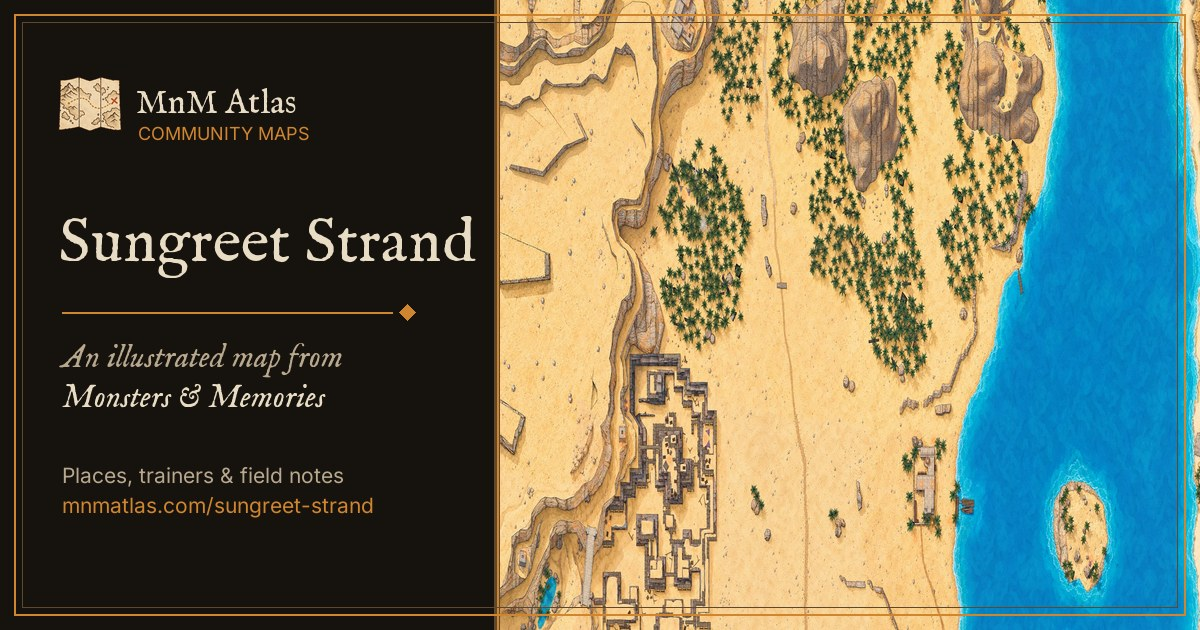
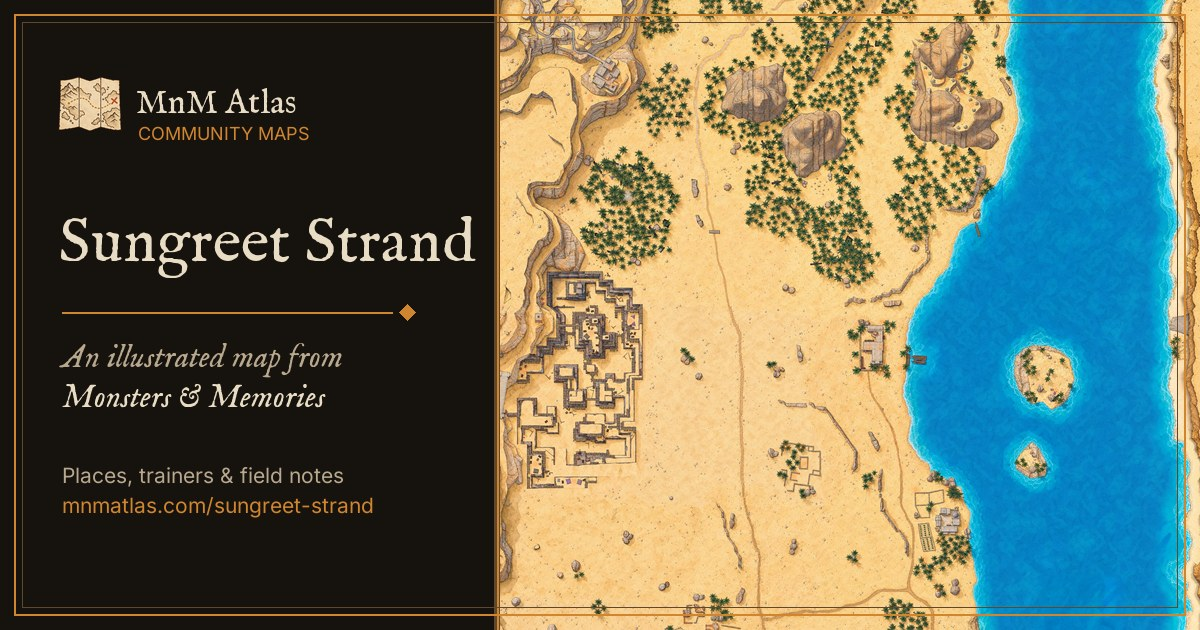
Fix the stretched Sungreet Strand link preview card
The card artwork was cropped from a wide area and squeezed into the card's near-square panel; the crop now has the panel's proportions. The card URL version is bumped so Discord and others fetch the new image.

diff --git a/sungreet-strand/index.html b/sungreet-strand/index.html
@@ -4,8 +4,8 @@
  <meta charset="utf-8"><meta name="viewport" content="width=device-width,initial-scale=1"><meta name="theme-color" content="#16120e">
  <title>Sungreet Strand · MnM Atlas</title><meta name="description" content="An illustrated fan atlas of Sungreet Strand: the quarry, the palm groves, the river and its camps, with place names and personal field notes.">
  <meta property="og:site_name" content="MnM Atlas"><meta property="og:title" content="Sungreet Strand · MnM Atlas"><meta property="og:description" content="An illustrated fan atlas of Sungreet Strand: the quarry, the palm groves, the river and its camps, with place names and personal field notes."><meta property="og:url" content="https://www.mnmatlas.com/sungreet-strand/"><meta property="og:type" content="website">
- <meta property="og:image" content="https://www.mnmatlas.com/assets/cards/sungreet-strand.jpg?v=1"><meta property="og:image:type" content="image/jpeg"><meta property="og:image:width" content="1200"><meta property="og:image:height" content="630"><meta property="og:image:alt" content="Sungreet Strand, an illustrated map from Monsters & Memories, in MnM Atlas.">
- <meta name="twitter:card" content="summary_large_image"><meta name="twitter:title" content="Sungreet Strand · MnM Atlas"><meta name="twitter:description" content="An illustrated fan atlas of Sungreet Strand: the quarry, the palm groves, the river and its camps, with place names and personal field notes."><meta name="twitter:image" content="https://www.mnmatlas.com/assets/cards/sungreet-strand.jpg?v=1">
+ <meta property="og:image" content="https://www.mnmatlas.com/assets/cards/sungreet-strand.jpg?v=2"><meta property="og:image:type" content="image/jpeg"><meta property="og:image:width" content="1200"><meta property="og:image:height" content="630"><meta property="og:image:alt" content="Sungreet Strand, an illustrated map from Monsters & Memories, in MnM Atlas.">
+ <meta name="twitter:card" content="summary_large_image"><meta name="twitter:title" content="Sungreet Strand · MnM Atlas"><meta name="twitter:description" content="An illustrated fan atlas of Sungreet Strand: the quarry, the palm groves, the river and its camps, with place names and personal field notes."><meta name="twitter:image" content="https://www.mnmatlas.com/assets/cards/sungreet-strand.jpg?v=2">
  <link rel="canonical" href="https://www.mnmatlas.com/?map=sungreet-strand"><link rel="icon" href="../favicon.ico" sizes="48x48">
  <script>(()=>{const to=new URL('../',location.href),q=new URLSearchParams(location.search);q.set('map','sungreet-strand');to.search=q.toString();to.hash=location.hash;location.replace(to.href);})();</script>
  <noscript><meta http-equiv="refresh" content="0; url=../?map=sungreet-strand"></noscript>
